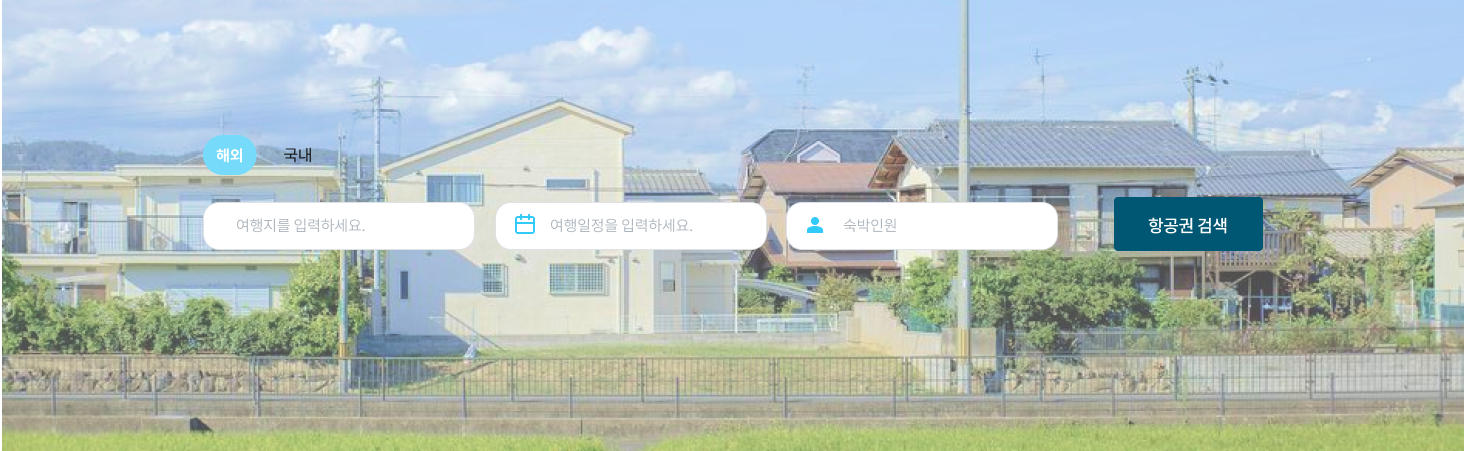
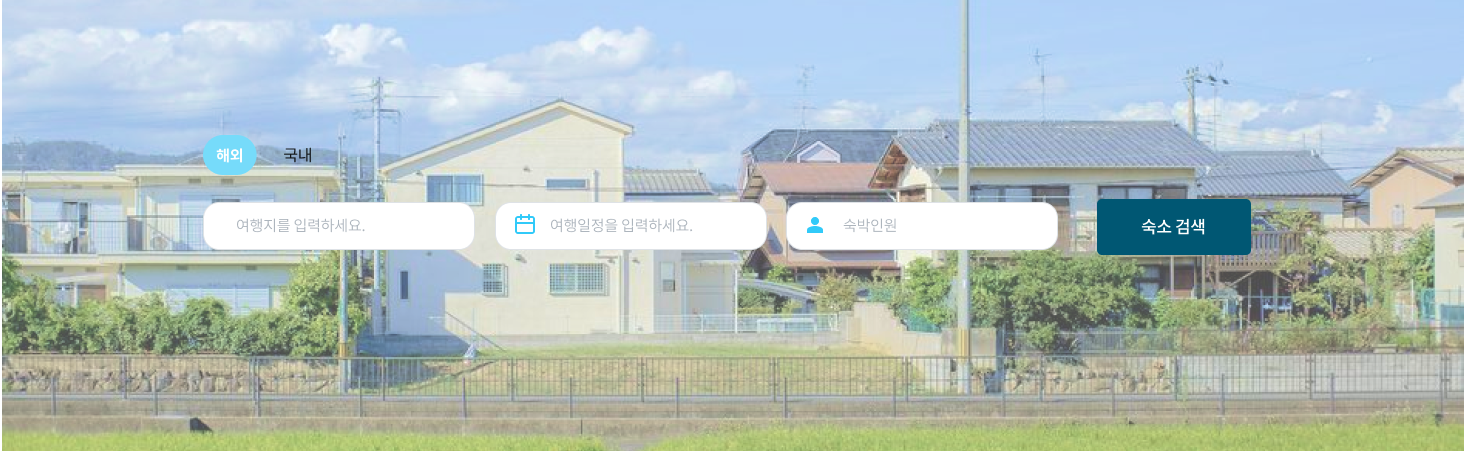
changes

Changed region(s): [[0.7372, 0.4346, 0.8601, 0.5898]]

diff --git a/static/css/air.css b/static/css/air.css
@@ -76,8 +76,7 @@
 .v180_212 {
   width: 100%;
   height: 406px;
-  /*background: url("../images/v180_212.png");*/
-  background: url("../images/suko_ba.png");
+  background: url("../images/air_ban.png");
   background-repeat: no-repeat;
   background-position: center center;
   background-size: cover;

diff --git a/static/css/main.css b/static/css/main.css
@@ -18,7 +18,7 @@
   background-position: center center;
   background-size: cover;
   position: absolute;
-  left: 400px;
+  left: 250px;
 }
 
 #button-container:hover {
